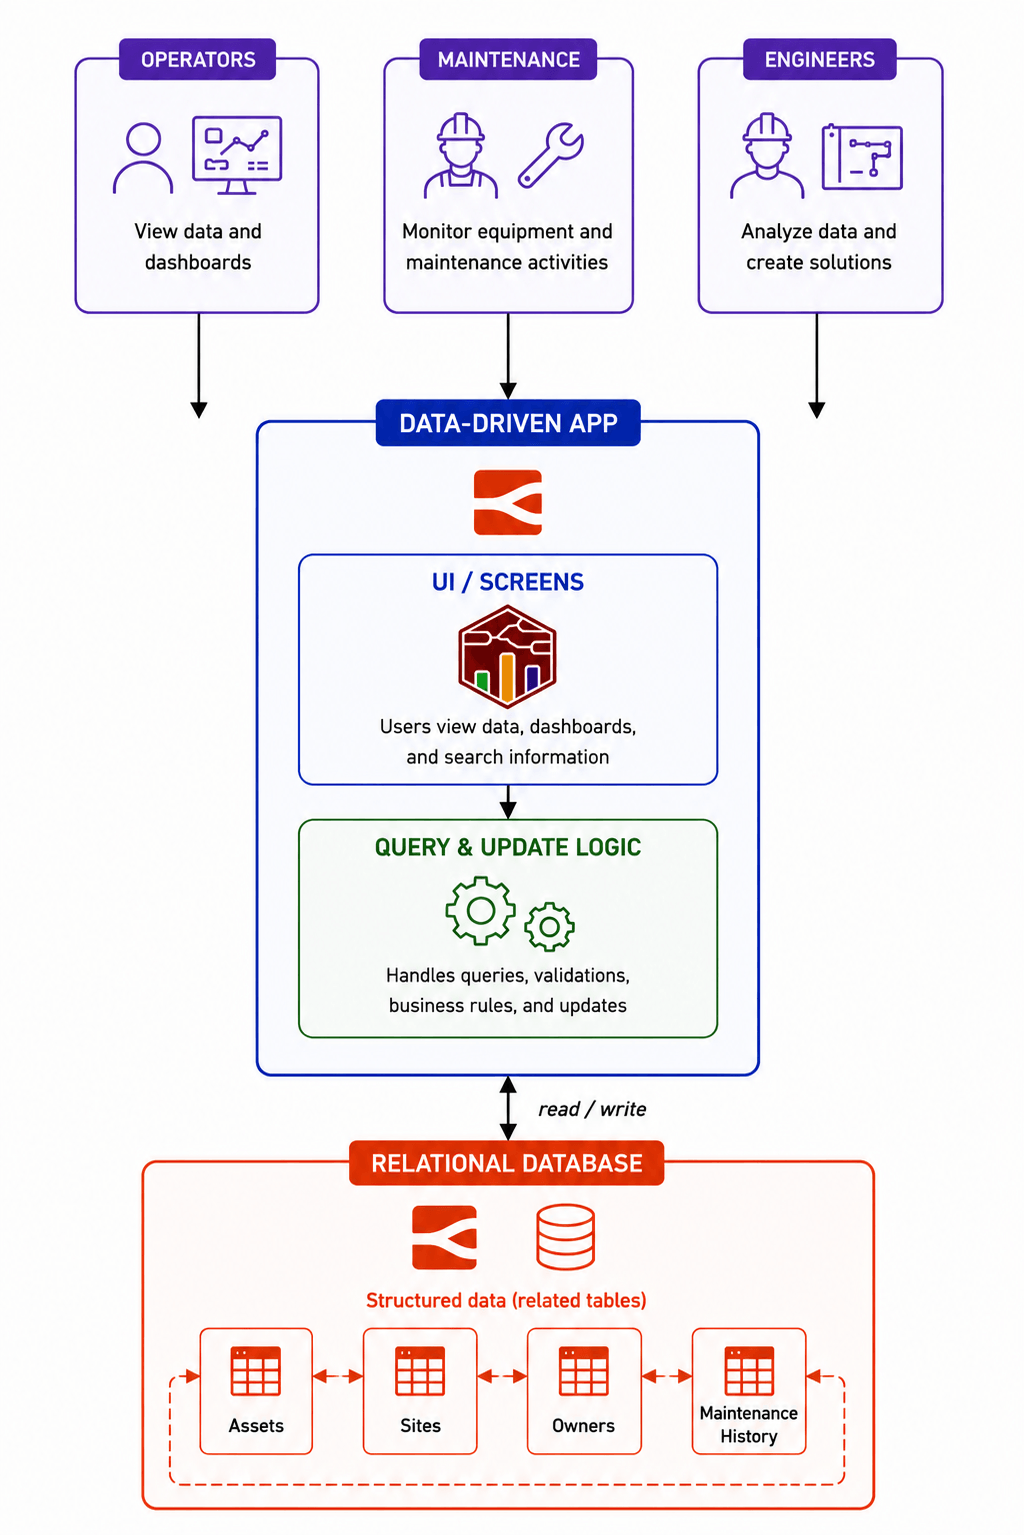
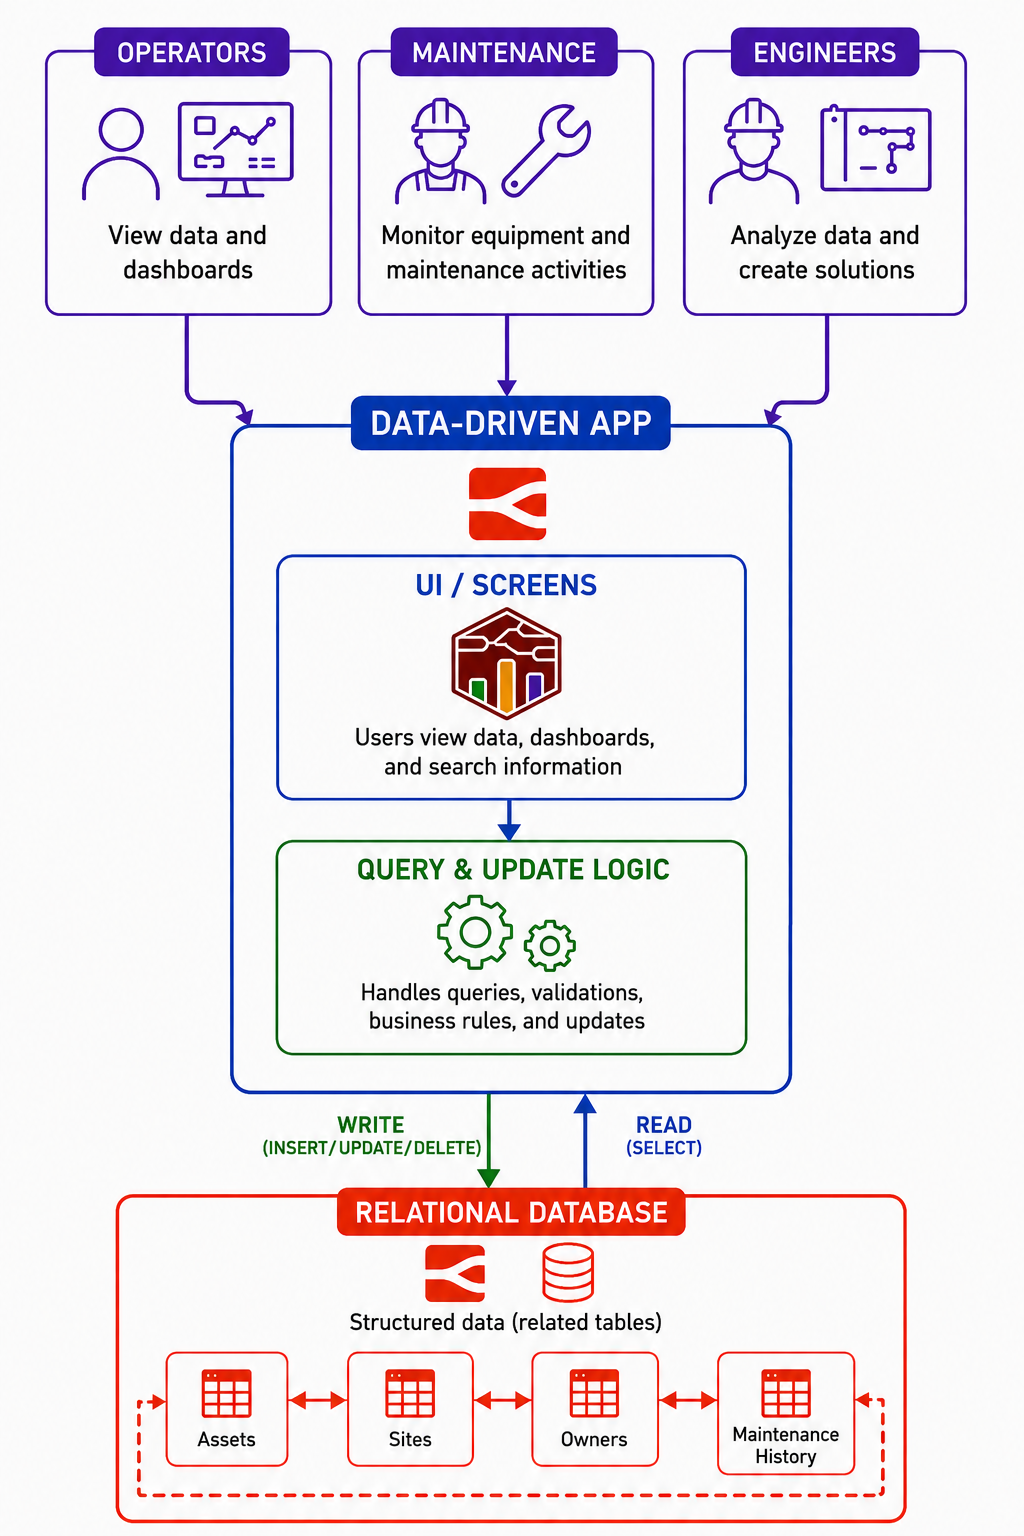
update diagram 2 and update structer of article

Changed region(s): [[0.0312, 0.0, 0.9688, 1.0], [0.9062, 0.1837, 0.9375, 0.2143]]

diff --git a/src/blog/2026/06/application-idea-to-architectur.md b/src/blog/2026/06/application-idea-to-architectur.md
@@ -57,7 +57,7 @@ Every industrial application starts with an idea.
 
 <!--more-->
 
-The challenge isn't the idea—it's turning it into a clear architecture. Instead of starting with technologies, start with the responsibilities the application must fulfil. Once you can identify those, the architecture naturally follows.
+The challenge isn't the idea. It's turning it into a clear architecture. Instead of starting with technologies, start with the responsibilities the application must fulfil. Once you can identify those, the architecture naturally follows.
 
 This article introduces a simple four-step framework for turning application ideas into repeatable industrial architectures.
 
@@ -136,9 +136,7 @@ Notice what we skipped. We never discussed protocols, flows, dashboards, databas
 
 ## Example 2: A Software Idea
 
-The process doesn't change when hardware disappears from the picture.
-
-Let's take a completely different requirement.
+The process doesn't change when hardware disappears from the picture. This time the four moves should already feel familiar, so we'll work through them as one continuous walk rather than four labelled steps.
 
 ### The Idea
 
@@ -146,13 +144,9 @@ A company wants a central asset registry where teams can view, search, and maint
 
 Operators, maintenance teams, and engineers all need the same information, and everyone should see changes immediately.
 
-### 1. Say What It Does
+### Working Through the Moves
 
-The application maintains a shared list of assets that users can view, search, and update.
-
-Again, we're describing the outcome, not the implementation.
-
-### 2. Pick the Building Block
+Said plainly, the application maintains a shared list of assets that users can view, search, and update. That's the outcome, not the implementation.
 
 This time nothing touches machines, PLCs, or sensors. The application exists entirely for people. Users open screens, search records, update information, and view results. That points us towards a software building block.
 
@@ -162,26 +156,14 @@ This time nothing touches machines, PLCs, or sensors. The application exists ent
 | **Data-Driven App**       | A user-facing application whose content is driven by data.                               |
 | **Shared Building Block** | Reusable functionality that you incorporate into other applications.                     |
 
-The requirement revolves around people viewing and managing data through an interface.
+The requirement revolves around people viewing and managing data through an interface, which makes it a **Data-Driven App**.
 
-That makes it a **Data-Driven App**.
-
-We've picked the application. Now decide where its data lives.
-
-### 3. Decide Where the Data Goes
-
-Assets are records.
-
-An asset belongs to a site. It may have an owner, a status, maintenance history, and other attributes. Users search these records, update them, and relate them to one another.
-
-This is structured business data, which makes a **Relational Database** the natural choice.
-
-The Data-Driven App reads and updates the information stored there.
+Now the data. Assets are records. An asset belongs to a site. It may have an owner, a status, maintenance history, and other attributes. Users search these records, update them, and relate them to one another. This is structured business data, which makes a **Relational Database** the natural choice. The Data-Driven App reads and updates the information stored there.
 
 ![Architecture diagram of a Software Data-Driven App reading and updating asset records in a Relational Database](./images/example-2-diagram.png)
 _Asset records live in the Relational Database; the Data-Driven App is the interface users work through_
 
-### 4. Read Off the Sentence
+### Read Off the Sentence
 
 Combine the pieces.
 
@@ -193,7 +175,7 @@ Same four moves, same single-sentence result. We started with a business require
 
 ## Example 3: Combining Hardware and Software (OEE)
 
-The first two examples were deliberately simple: one hardware application, one software application. Most real-world industrial applications combine both. This time, the moves should already feel like second nature, so we'll work through them as one continuous walk rather than four labelled steps.
+The first two examples were deliberately simple: one hardware application, one software application. Most real-world industrial applications combine both. By now the moves should feel like second nature, so we'll again work through them as one continuous walk.
 
 ### The Idea
 